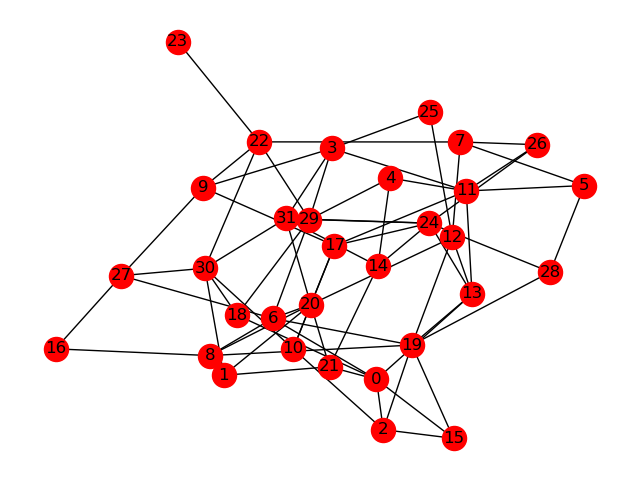
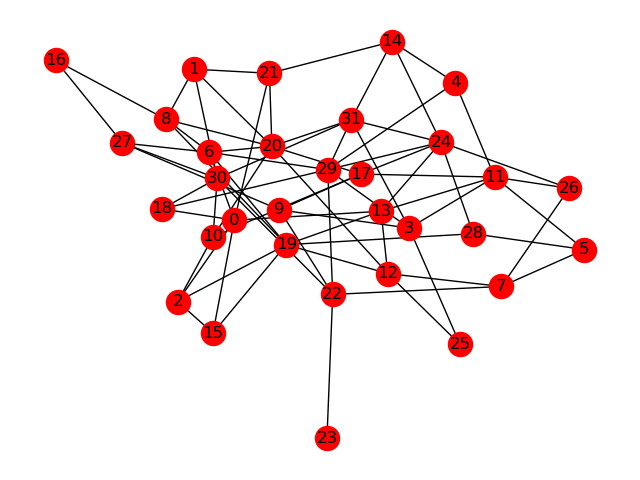
rename id

diff --git a/scripts/gentopo.py b/scripts/gentopo.py
@@ -13,10 +13,10 @@ def gen_topo(n):
     result = {}
 
     for i in range(n):
-        result[str(i + 1)] = {'neighbor': []}
+        result[str(i) + '1'] = {'neighbor': []}
     for e in G.edges:
-        result[str(e[0] + 1)]['neighbor'].append(str(e[1] + 1))
-        result[str(e[1] + 1)]['neighbor'].append(str(e[0] + 1))
+        result[str(e[0]) + '1']['neighbor'].append(str(e[1]) + '1')
+        result[str(e[1]) + '1']['neighbor'].append(str(e[0]) + '1')
 
     print result
     with open('gentopo.out.json', 'w') as f:
